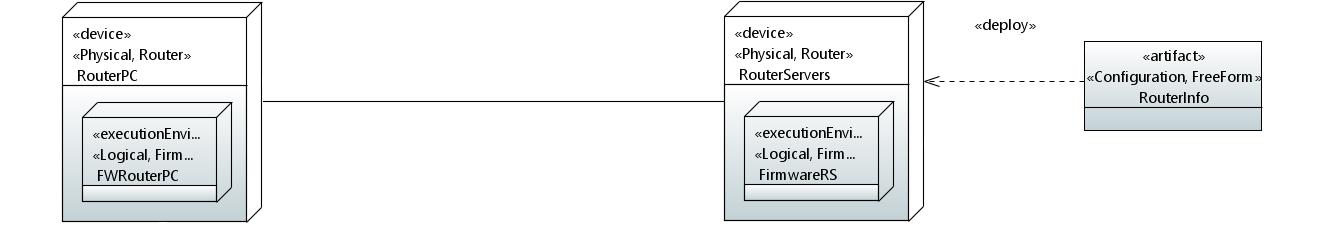
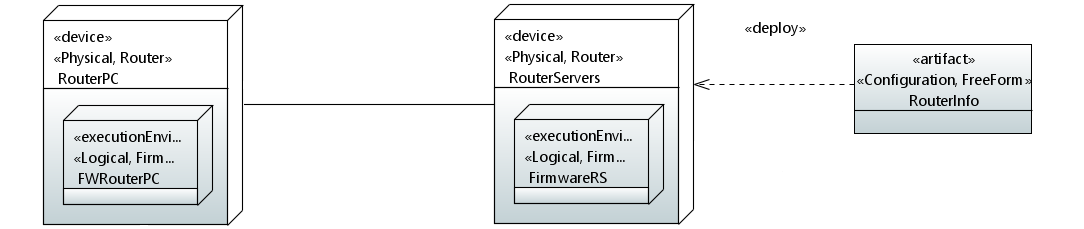
Arregla tamaño de imágenes

diff --git a/Documentación/Informe/Fuente/capitulos/chap06.tex b/Documentación/Informe/Fuente/capitulos/chap06.tex
@@ -6,21 +6,21 @@ Para el caso de estudio se utilizó el diagrama de las Figuras  \ref{fig:caso_es
 
 \begin{figure}[htbp]
     \centering
-    \includegraphics[width=0.75\textwidth]{figures/caso_estudio/study_case_c.png}
+    \includegraphics[width=\textwidth]{figures/caso_estudio/study_case_c.png}
     \caption{Ejemplo para el Caso de Estudio (alto nivel).}
     \label{fig:caso_estudio}
 \end{figure}
 
 \begin{figure}[htbp]
     \centering
-    \includegraphics[width=0.9\textwidth]{figures/caso_estudio/study_case_a.png}
+    \includegraphics[width=\textwidth]{figures/caso_estudio/study_case_a.png}
     \caption{Ejemplo para el Caso de Estudio - RouterPC.}
     \label{fig:caso_estudio_pc}
 \end{figure}
 
 \begin{figure}[htbp]
     \centering
-    \includegraphics[width=0.9\textwidth]{figures/caso_estudio/study_case_b.png}
+    \includegraphics[width=\textwidth]{figures/caso_estudio/study_case_b.png}
     \caption{Ejemplo para el Caso de Estudio - RouterServers.}
     \label{fig:caso_estudio_servers}
 \end{figure}
@@ -48,7 +48,7 @@ la condición de que exista su respectivo componente en el diagrama.
 
 \begin{figure}[htbp]
     \centering
-    \includegraphics[width=0.70\textwidth]{figures/caso_estudio/estructura.png}
+    \includegraphics[width=0.80\textwidth]{figures/caso_estudio/estructura.png}
     \caption{Estructura de archivos generada para el Caso de Estudio.}
     \label{fig:caso_estudio:estructura}
 \end{figure}
@@ -67,7 +67,7 @@ En la Figura \ref{fig:caso_estudio:ejemplo_pcunix2_gen} se pueden ver resaltados
 
 \begin{figure}[htbp]
     \centering
-    \includegraphics[width=0.75\textwidth]{figures/caso_estudio/ej_pcunix2_gen.png}
+    \includegraphics[width=0.8\textwidth]{figures/caso_estudio/ej_pcunix2_gen.png}
     \caption{Archivos generados a partir de la transformación del componente PCUnix2.}
     \label{fig:caso_estudio:ejemplo_pcunix2_gen}
 \end{figure}
@@ -85,21 +85,21 @@ Luego, se tienen los archivos de definición de cada nodo en particular bajo el 
 
 \begin{figure}[htbp]
     \centering
-    \includegraphics[width=0.75\textwidth]{figures/caso_estudio/pcunix2_properties.png}
+    \includegraphics[width=0.8\textwidth]{figures/caso_estudio/pcunix2_properties.png}
     \caption{Propiedades del componente PCUnix2.}
     \label{fig:caso_estudio:pcunix2_prop}
 \end{figure}
 
 \begin{figure}[htbp]
     \centering
-    \includegraphics[width=0.75\textwidth]{figures/caso_estudio/ubuntu_properties.png}
+    \includegraphics[width=0.8\textwidth]{figures/caso_estudio/ubuntu_properties.png}
     \caption{Propiedades del nodo lógico Ubuntu de PCUnix2.}
     \label{fig:caso_estudio:ubuntu_prop}
 \end{figure}
 
 \begin{figure}[htbp]
     \centering
-    \includegraphics[width=0.75\textwidth]{figures/caso_estudio/mydb2_properties.png}
+    \includegraphics[width=0.8\textwidth]{figures/caso_estudio/mydb2_properties.png}
     \caption{Propiedades del nodo lógico mydb2 de PCUnix2.}
     \label{fig:caso_estudio:mydb2_prop}
 \end{figure}
@@ -115,7 +115,7 @@ En el lado de la configuración, tenemos el artefacto \textbf{PCUnix2DB} aplicad
 
 \begin{figure}[htbp]
     \centering
-    \includegraphics[width=0.75\textwidth]{figures/caso_estudio/pcunix2db_properties.png}
+    \includegraphics[width=0.8\textwidth]{figures/caso_estudio/pcunix2db_properties.png}
     \caption{Propiedades del artefacto PCUnix2DB aplicado al nodo lógico mydb2 de PCUnix2.}
     \label{fig:caso_estudio:pcunix2db_prop}
 \end{figure}
@@ -138,7 +138,7 @@ Por último tenemos los archivos de información generados para el componente \t
 
 \begin{figure}[htbp]
     \centering
-    \includegraphics[width=0.75\textwidth]{figures/caso_estudio/pcunix2_info_gen.png}
+    \includegraphics[width=0.8\textwidth]{figures/caso_estudio/pcunix2_info_gen.png}
     \caption{Archivos de información generados para los componentes PCUnix2 y Ubuntu.}
     \label{fig:caso_estudio:pcunix2_info_gen}
 \end{figure}

diff --git a/Documentación/Informe/Fuente/capitulos/chap02.tex b/Documentación/Informe/Fuente/capitulos/chap02.tex
@@ -34,7 +34,7 @@ Es importante notar que esta herramienta se basa en la detección y generación 
 
 \begin{figure}[htbp]
     \centering
-    \includegraphics[width=\textwidth]{figures/marco_teorico/solarwinds.png}
+    \includegraphics[width=0.8\textwidth]{figures/marco_teorico/solarwinds.png}
     \caption{Ejemplo de diagrama utilizando SolarWinds. \cite{solarwinds}}
     \label{fig:marco:solarwinds}
 \end{figure}
@@ -187,7 +187,7 @@ Las transformaciones también pueden ser aplicadas a múltiples modelos origen, 
 
 \begin{figure}[htbp]
     \centering
-    \includegraphics[width=0.75\textwidth]{figures/marco_teorico/model_transformation.png}
+    \includegraphics[width=0.8\textwidth]{figures/marco_teorico/model_transformation.png}
     \caption{Componentes de una transformación de modelo. \cite{biehl2010literature}.}
     \label{fig:marco:transformation}
 \end{figure}
@@ -242,7 +242,7 @@ En este caso se quiere definir el elemento Servers, por lo que extiende la metac
 
 \begin{figure}[htbp]
     \centering
-    \includegraphics[width=0.75\textwidth]{figures/marco_teorico/profile-servers.png}
+    \includegraphics[width=0.5\textwidth]{figures/marco_teorico/profile-servers.png}
     \caption{Ejemplo de perfil UML Servers. \cite{umlprofile}}
     \label{fig:marco:profile_server}
 \end{figure}
@@ -282,8 +282,8 @@ Acceleo es una herramienta de generación de código que implementa la especific
 
 \begin{figure}[htbp]
     \centering
-    \includegraphics[width=\textwidth]{figures/marco_teorico/acceleo.png}
-    \caption{Proceso de transformación de Acceleo.}
+    \includegraphics[width=0.8\textwidth]{figures/marco_teorico/acceleo.png}
+    \caption{Proceso de transformación de Acceleo. \cite{acceleo}}
     \label{fig:marco:acceleo_transformation}
 \end{figure}
 
@@ -318,14 +318,14 @@ Finalmente, no define ni busca integrarse con otra herramienta, sino que propone
 
 \begin{figure}[htbp]
     \centering
-    \includegraphics[width=0.75\textwidth]{figures/marco_teorico/diagrama_eclases.png}
+    \includegraphics[width=0.8\textwidth]{figures/marco_teorico/diagrama_eclases.png}
     \caption{Diagrama de Eclases del modelo de dominio. \cite{higuerametamodelo}}
     \label{fig:marco:eclassdiagram}
 \end{figure}
 
 \begin{figure}[htbp]
     \centering
-    \includegraphics[width=0.75\textwidth]{figures/marco_teorico/salida_router.png}
+    \includegraphics[width=\textwidth]{figures/marco_teorico/salida_router.png}
     \caption{Ejemplo de salida para la configuración de routers. \cite{higuerametamodelo}}
     \label{fig:marco:routerconfigurationexample}
 \end{figure}

diff --git a/Documentación/Informe/Fuente/capitulos/chap05.tex b/Documentación/Informe/Fuente/capitulos/chap05.tex
@@ -18,7 +18,7 @@ De esto, y tal como se explicó anteriormente en la sección Definición de Domi
 
 \begin{figure}[htbp]
     \centering
-    \includegraphics[width=\textwidth]{figures/uml_diagrams/topology_node.png}
+    \includegraphics[width=0.8\textwidth]{figures/uml_diagrams/topology_node.png}
     \caption{Representación UML de Nodo.}
     \label{fig:uml:node}
 \end{figure}
@@ -122,7 +122,7 @@ La extensión de los elementos mencionados previamente, utilizando estereotipos,
 
 \begin{figure}[htbp]
     \centering
-    \includegraphics[width=\textwidth]{figures/profile_implementation/stereotypes_0.png}
+    \includegraphics[width=0.8\textwidth]{figures/profile_implementation/stereotypes_0.png}
     \caption{Estereotipos aplicados a Device, ExecutionEnvironment, y Artifact.}
     \label{fig:profile:base_stereotypes}
 \end{figure}
@@ -297,7 +297,7 @@ La Figura \ref{fig:transformation:information_generated} muestra el resultado de
 
 \begin{figure}[htbp]
     \centering
-    \includegraphics[width=\textwidth]{figures/transformation_implementation/information_example1.png}
+    \includegraphics[width=0.8\textwidth]{figures/transformation_implementation/information_example1.png}
     \caption{Resultado de la transformación del modelo en la Figura \ref{fig:transformation:information_example}.}
     \label{fig:transformation:information_generated}
 \end{figure}
@@ -328,7 +328,7 @@ En la Figura \ref{fig:transformation:configuration_generated} se puede analizar 
 
 \begin{figure}[htbp]
     \centering
-    \includegraphics[width=0.75\textwidth]{figures/transformation_implementation/configuration_generation.png}
+    \includegraphics[width=0.7\textwidth]{figures/transformation_implementation/configuration_generation.png}
     \caption{Resultado de la transformación del modelo en la Figura \ref{fig:transformation:configuration}.}
     \label{fig:transformation:configuration_generated}
 \end{figure}

diff --git a/Documentación/Informe/Fuente/capitulos/chap01.tex b/Documentación/Informe/Fuente/capitulos/chap01.tex
@@ -5,7 +5,7 @@ Todo esto es un proceso costoso y proclive a errores debido a la continua evoluc
 
 Este proceso de configuración se suele realizar a través de un proceso de codificación de scripts a bajo nivel que se torna repetitivo y, sin protocolos consensuados entre los integrantes del grupo de administración de dicha red, muchas veces caótico.
 
-Algunas herramientas permiten visualizar información general de una red (ej.: LanFlow\cite{lanflow}, Network Notepad\cite{networknotepad} y Cade) y de esta forma lograr una comprensión global de su estructura y componentes, pero esto no soluciona los problemas inherentes a impactar una configuración de forma manual, por lo cual si bien se tiene una mejor comprensión de la red, el proceso sigue siendo repetitivo y caótico.
+Algunas herramientas permiten visualizar información general de una red (ej.: LanFlow \cite{lanflow}, Network Notepad\cite{networknotepad} y Cade) y de esta forma lograr una comprensión global de su estructura y componentes, pero esto no soluciona los problemas inherentes a impactar una configuración de forma manual, por lo cual si bien se tiene una mejor comprensión de la red, el proceso sigue siendo repetitivo y caótico.
 
 Una potencial solución a estos problemas es contar con un modelo que represente simultáneamente la estructura de la red, sus componentes y la configuración de los mismos. Esto sería acompañado de cierta automatización que permita generar scripts de configuración a partir de necesidades expresadas en el modelo de visualización a más alto nivel de abstracción.
 Con esta solución no sólo se resuelve el problema de comprensión gobal sino que simplifica la comunicación entre los integrantes del grupo y finalmente se elimina la necesidad de generar scripts de configuración manualmente.

diff --git a/Documentación/Informe/Fuente/resumen/Resumen.tex b/Documentación/Informe/Fuente/resumen/Resumen.tex
@@ -1,9 +1,7 @@
 \chapter*{Resumen}
 
-
-
-El manejo de la configuración en el contexto de las tareas de administración de sistemas es una actividad que se ha vuelto esencial en los últimos años y permite indicar, muchas veces de forma puramente declarativa, el estado que se desea de un sistema en particular. Sin embargo, la situación más habitual es que dicha configuración se realice de forma manual o mediante scripts y que la documentación referente a la misma sea escasa y desactualizada. Esto ocasiona que la configuración de una red sea una tarea repetitiva y propensa a errores.
-
+El manejo de la configuración en el contexto de las tareas de administración de sistemas es una actividad que se ha vuelto esencial en los últimos años y permite indicar, muchas veces de forma puramente declarativa, el estado que se desea de un sistema en particular.
+Sin embargo, la situación más habitual es que dicha configuración se realice de forma manual o mediante scripts, y que la documentación referente a la misma sea escasa y desactualizada; esto ocasiona que la configuración de una red sea una tarea repetitiva y propensa a errores.
 
 El paradigma de Ingeniería Dirigida por Modelos (MDE por sus siglas en inglés) propone la construcción de software basado en una abstracción de su complejidad a través de la definición de modelos y en un proceso de construcción (semi)automático guiado por transformaciones de estos modelos.
 

diff --git a/Documentación/Informe/Fuente/capitulos/chap04.tex b/Documentación/Informe/Fuente/capitulos/chap04.tex
@@ -71,14 +71,14 @@ La representación de UML para el elemento \textbf{Node} es capturada en la Figu
 \begin{figure}[H]
     \centering
     \includegraphics[width=0.75\textwidth]{figures/requirements/node_device_exec.png}
-    \caption{Representación de UML de Node.}
+    \caption{Representación de UML de Node. \cite{UML}}
     \label{fig:requirements:uml_node}
 \end{figure}
 
 \begin{figure}[H]
     \centering
     \includegraphics[width=\textwidth]{figures/requirements/deployment_syntax.png}
-    \caption{Representación de UML de Deployment.}
+    \caption{Representación de UML de Deployment. \cite{UML}}
     \label{fig:requirements:uml_deployment}
 \end{figure}
 
